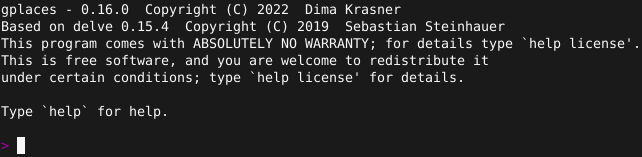
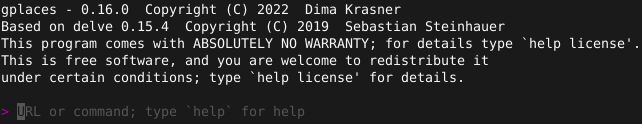
make the legal notice shorter

diff --git a/gplaces.c b/gplaces.c
@@ -1105,6 +1105,13 @@ static void shell_name_completion(const char *text, bestlineCompletions *lc) {
 }
 
 
+static char *shell_hints(const char *buf, const char **ansi1, const char **ansi2) {
+	(void)ansi1;
+	(void)ansi2;
+	return strcspn(buf, " ") == 0 ? "URL or command; type `help` for help" : NULL;
+}
+
+
 static void shell(int argc, char **argv) {
 	static char path[1024];
 	const char *home = NULL;
@@ -1113,6 +1120,7 @@ static void shell(int argc, char **argv) {
 
 	if (interactive) {
 		bestlineSetCompletionCallback(shell_name_completion);
+		bestlineSetHintsCallback(shell_hints);
 		if ((home = getenv("HOME")) != NULL) {
 			snprintf(path, sizeof(path), "%s/.gplaces_history", home);
 			bestlineHistoryLoad(path);
@@ -1215,9 +1223,7 @@ int main(int argc, char **argv) {
 		"Based on delve 0.15.4  Copyright (C) 2019  Sebastian Steinhauer\n" \
 		"This program comes with ABSOLUTELY NO WARRANTY; for details type `help license'.\n" \
 		"This is free software, and you are welcome to redistribute it\n" \
-		"under certain conditions; type `help license' for details.\n" \
-		"\n" \
-		"Type `help` for help.\n" \
+		"under certain conditions; type `help license' for details.\n"
 	);
 
 	shell(argc, argv);

diff --git a/README.md b/README.md
@@ -49,7 +49,7 @@ gplaces is originally a Gemini port of the [delve](https://github.com/kieselstei
 ## Statistic
 Language|files|blank|comment|code
 :-------|-------:|-------:|-------:|-------:
-C|1|223|50|954
+C|1|225|50|958
 
 ## Help
 Just type `help` when the client is running.
